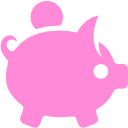
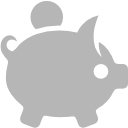
Minor webclient UI tweaks

diff --git a/react-webclient/src/components/home/home.jsx b/react-webclient/src/components/home/home.jsx
@@ -38,10 +38,9 @@ export default class Home extends React.Component {
           <div className="row centered-text marketing-row">
             <div className="medium-4 large-4 columns">
               <div className='text-center'>
-                 <img src={saving} />
-                <h4>Plan for Saving</h4>
+                <img src={saving} />
+                <h4>Diligence</h4>
               </div>
-              <p className='text-center'>Start saving.</p>
               <p>
                 Saving money will help you plan for expenses,
                 chase away emergencies, and begin building wealth.
@@ -51,10 +50,9 @@ export default class Home extends React.Component {
             </div>
             <div className="medium-4 large-4 columns">
               <div className='text-center'>
-                 <img src={charity} />
-                <h4>Give to Others</h4>
+                <img src={charity} />
+                <h4>Generosity</h4>
               </div>
-              <p className='text-center'>Become generous.</p>
               <p>
                 Saving and producing wealth for its own sake
                 can lead to a selfish and self-centered life.
@@ -65,9 +63,8 @@ export default class Home extends React.Component {
             <div className="medium-4 large-4 columns">
               <div className='text-center'>
                  <img src={debts} />
-                <h4>Enjoy your Freedom</h4>
+                <h4>Freedom</h4>
               </div>
-              <p className='text-center'>Erase debt.</p>
               <p>
                 The fastest way to build wealth is to be debt free.
                 Having no debts means you have no payments. No

diff --git a/react-webclient/src/components/layout/nav.jsx b/react-webclient/src/components/layout/nav.jsx
@@ -70,7 +70,7 @@ export default class Nav extends React.Component {
               <li><Link to={`/monthly-statistics/${year}/${month}`}>{this.icon('graph-pie')} Statistics (for geeks)</Link></li>
               <li><Link to='/account-settings'>{this.icon('widget')} Account Settings</Link></li>
               {this.adminLink(user.admin)}
-              <li><a onClick={this.signOut} title="Sign out" rel="nofollow" href="#">{this.icon('x')} Sign out</a></li>
+              <li><a onClick={this.signOut} title="Sign out" rel="nofollow" href="#">{this.icon('power')} Sign out</a></li>
             </ul>
           </li>
         </ul>

diff --git a/react-webclient/src/assets/stylesheets/app.scss b/react-webclient/src/assets/stylesheets/app.scss
@@ -292,7 +292,11 @@ fieldset[disabled] {
   justify-content: center;
 }
 
-#main-content { padding-top: 2.75rem; }
+#main-content {
+  padding-top: 2.75rem;
+  background: white;
+  padding-bottom: 20px;
+}
 
 .not-found {
   display: flex;

diff --git a/react-webclient/src/assets/stylesheets/footer.scss b/react-webclient/src/assets/stylesheets/footer.scss
@@ -1,5 +1,4 @@
 .footer {
-  margin-top: 20px;
   background: none repeat scroll 0% 0% #333;
   padding: 24px 0px 10px;
 

diff --git a/react-webclient/src/assets/stylesheets/home.scss b/react-webclient/src/assets/stylesheets/home.scss
@@ -16,4 +16,8 @@
     height: 80px;
     width: 80px;
   }
+
+  h4 {
+    color: #b3b3b3;
+  }
 }
